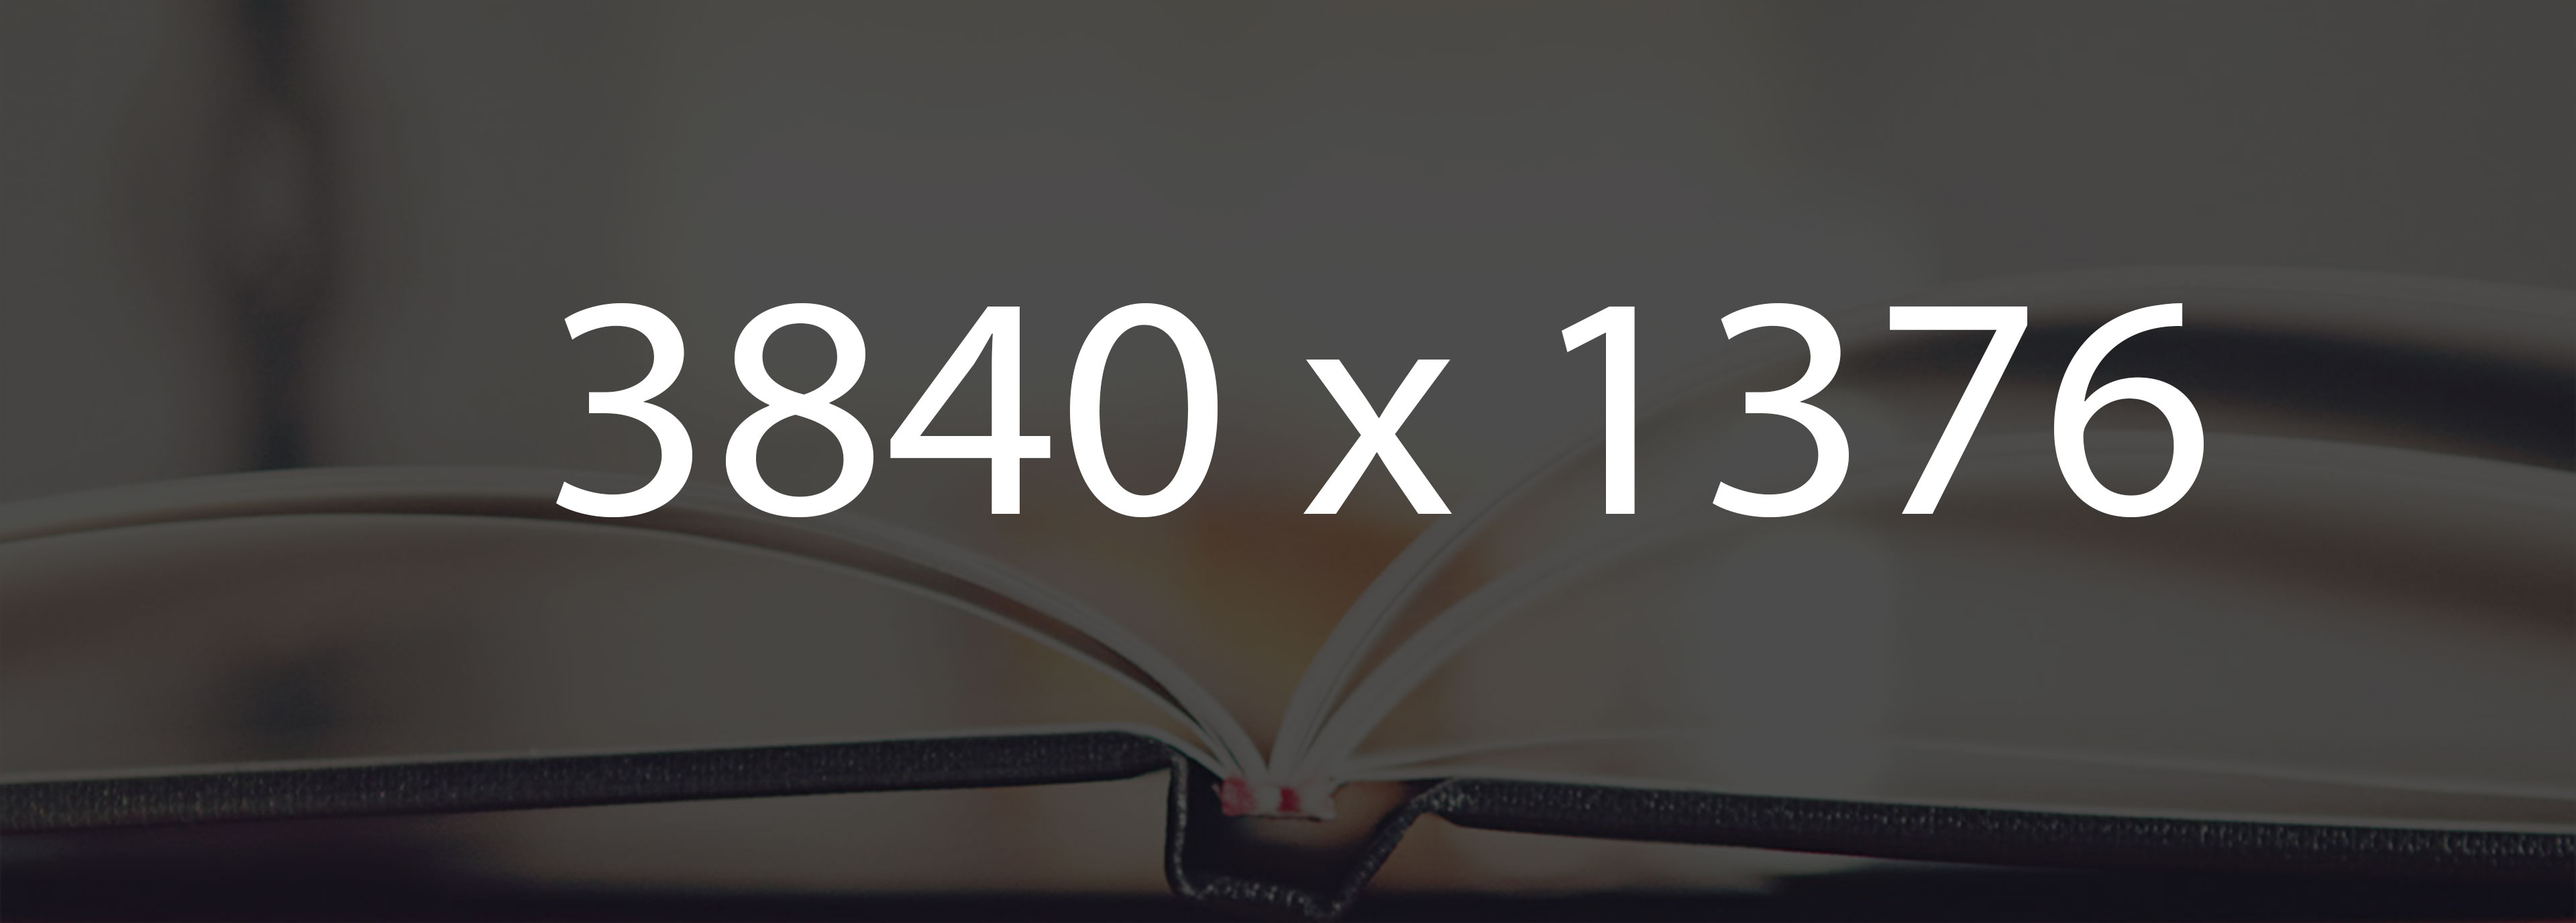
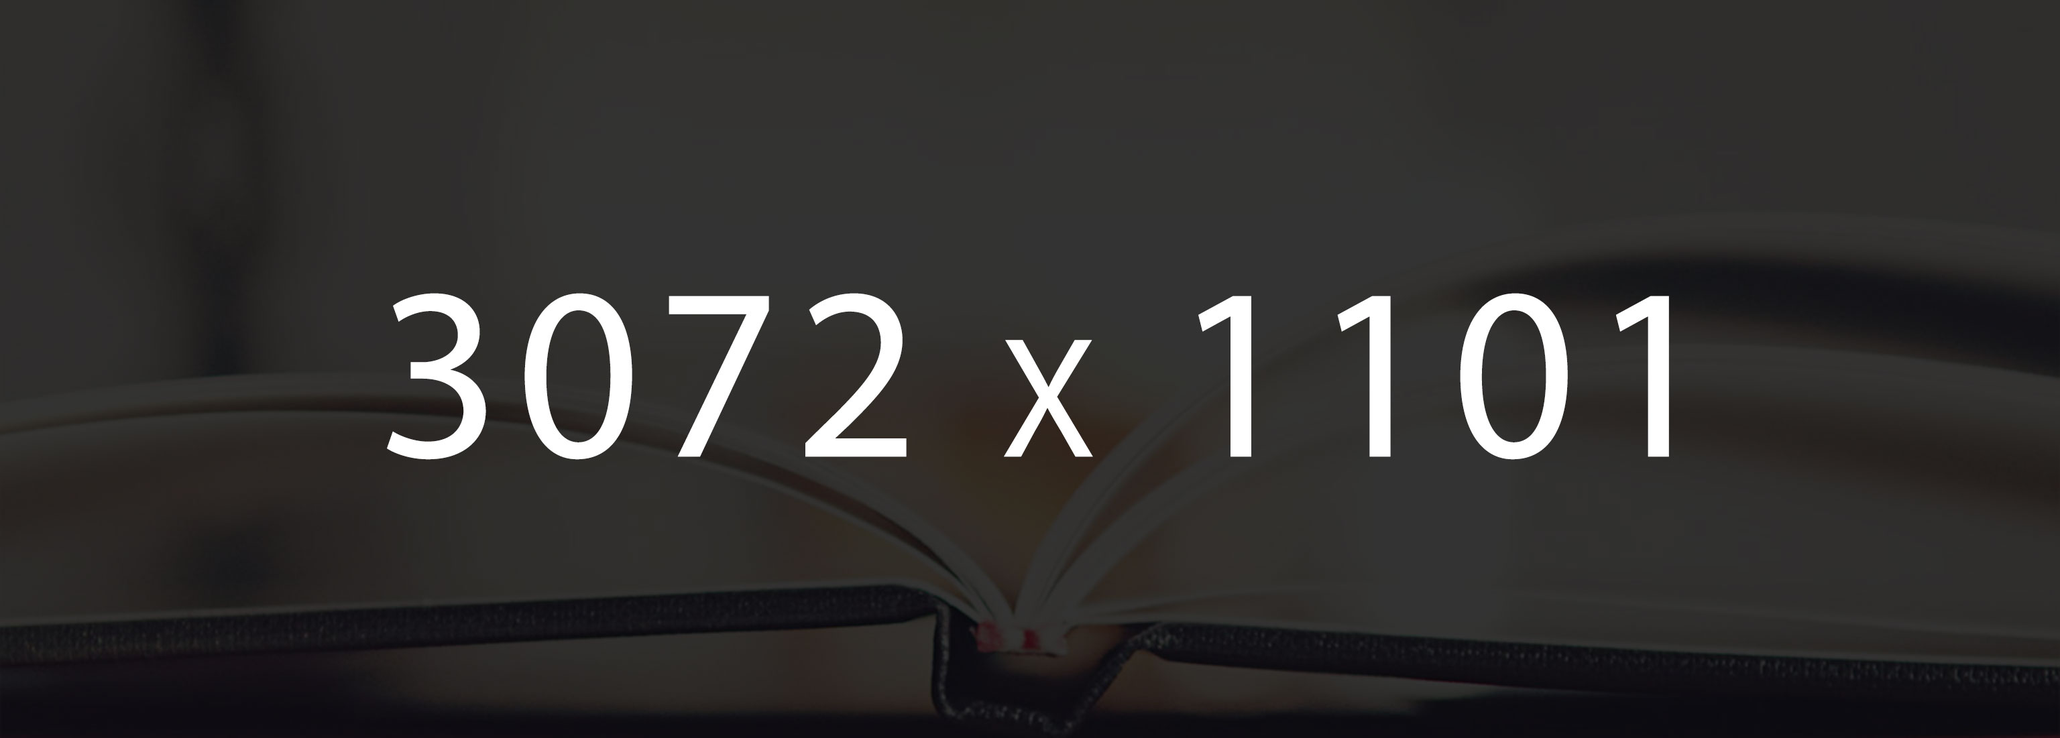
Completed Large Hero responsive images and mobile first design

diff --git a/app/index.html b/app/index.html
@@ -25,15 +25,16 @@
   </section>
 
   <section class="large-hero">
-    <div class="wrapper wrapper--large wrapper--no-padding-until-medium">
-      <picture>
-        <img srcset="assets/images/hero-smaller-i.jpg 640w, assets/images/hero-smaller-hi-dpi-i.jpg 1280w" alt="An open photo album">
-      </picture>
-      <div class="large-hero__text-content">
-        <h1 class="large-hero__title"><span class="large-hero__title-start">C</span>reate your own photostory</h1>
-        <h3 class="large-hero__subtitle">Make your photobook online</h3>
-        <p><a class="btn" href="#">Make your photobook</a></p>
-      </div>
+    <picture>
+      <source srcset="assets/images/hero-large.jpg 1536w, assets/images/hero-large-hi-dpi.jpg 3072w" media="(min-width: 1380px)">
+      <source srcset="assets/images/hero-medium.jpg 1380w, assets/images/hero-medium-hi-dpi.jpg 2760w" media="(min-width: 990px)">
+      <source srcset="assets/images/hero-small.jpg 990w, assets/images/hero-small-hi-dpi.jpg 1980w" media="(min-width: 640px)">
+      <img srcset="assets/images/hero-smaller.jpg 640w, assets/images/hero-smaller-hi-dpi.jpg 1280w" alt="An open photo album">
+    </picture>
+    <div class="large-hero__text-content">
+      <h1 class="large-hero__title"><span class="large-hero__title-start">C</span>reate your own photostory</h1>
+      <h3 class="large-hero__subtitle">Make your photobook online</h3>
+      <p><a class="btn" href="#">Make your photobook</a></p>
     </div>
   </section>
 

diff --git a/app/temp/styles/styles.css b/app/temp/styles/styles.css
@@ -389,7 +389,7 @@ img{
 
 .large-hero__subtitle{
     font-size: 1.2rem;
-    font-weight: 300;
+    font-weight: 400;
     margin-top: .5em;
     margin-bottom: 1.5rem;
   }
@@ -398,7 +398,7 @@ img{
 
 .large-hero__subtitle{
       font-size: 1.5rem;
-      margin-bottom: 3rem
+      margin-bottom: 4rem
   }
   }
 
@@ -409,28 +409,6 @@ img{
   margin-left: auto;
   margin-right: auto;
 }
-
-.wrapper--large{
-    max-width: 1520px;
-  }
-
-.wrapper .wrapper{
-    padding-left: 0;
-    padding-right: 0;
-  }
-
-.wrapper--no-padding-until-medium{
-    padding-left: 0;
-    padding-right: 0;
-  }
-
-@media only screen and (min-width: 768px){
-
-.wrapper--no-padding-until-medium{
-      padding-left: 18px;
-      padding-right: 18px
-  }
-  }
 
 .btn{
   font-size: 1rem;

diff --git a/app/assets/styles/modules/_wrapper.css b/app/assets/styles/modules/_wrapper.css
@@ -4,23 +4,4 @@
   max-width: 1200px;
   margin-left: auto;
   margin-right: auto;
-
-  &--large{
-    max-width: 1520px;
-  }
-
-  .wrapper{
-    padding-left: 0;
-    padding-right: 0;
-  }
-
-  &--no-padding-until-medium{
-    padding-left: 0;
-    padding-right: 0;
-
-    @mixin atMedium{
-      padding-left: 18px;
-      padding-right: 18px;
-    }
-  }
 }

diff --git a/app/assets/styles/modules/_large-hero.css b/app/assets/styles/modules/_large-hero.css
@@ -32,13 +32,13 @@
 
   &__subtitle{
     font-size: 1.2rem;
-    font-weight: 300;
+    font-weight: 400;
     margin-top: .5em;
     margin-bottom: 1.5rem;
 
     @mixin atSmall{
       font-size: 1.5rem;
-      margin-bottom: 3rem;
+      margin-bottom: 4rem;
     }
   }
 }

diff --git a/app/assets/styles/base/_mixin.css b/app/assets/styles/base/_mixin.css
@@ -12,6 +12,6 @@
 
 @define-mixin atLarge{
   @media only screen and (min-width: 992px){
-    @mixin-content;  
+    @mixin-content;
   }
 }
